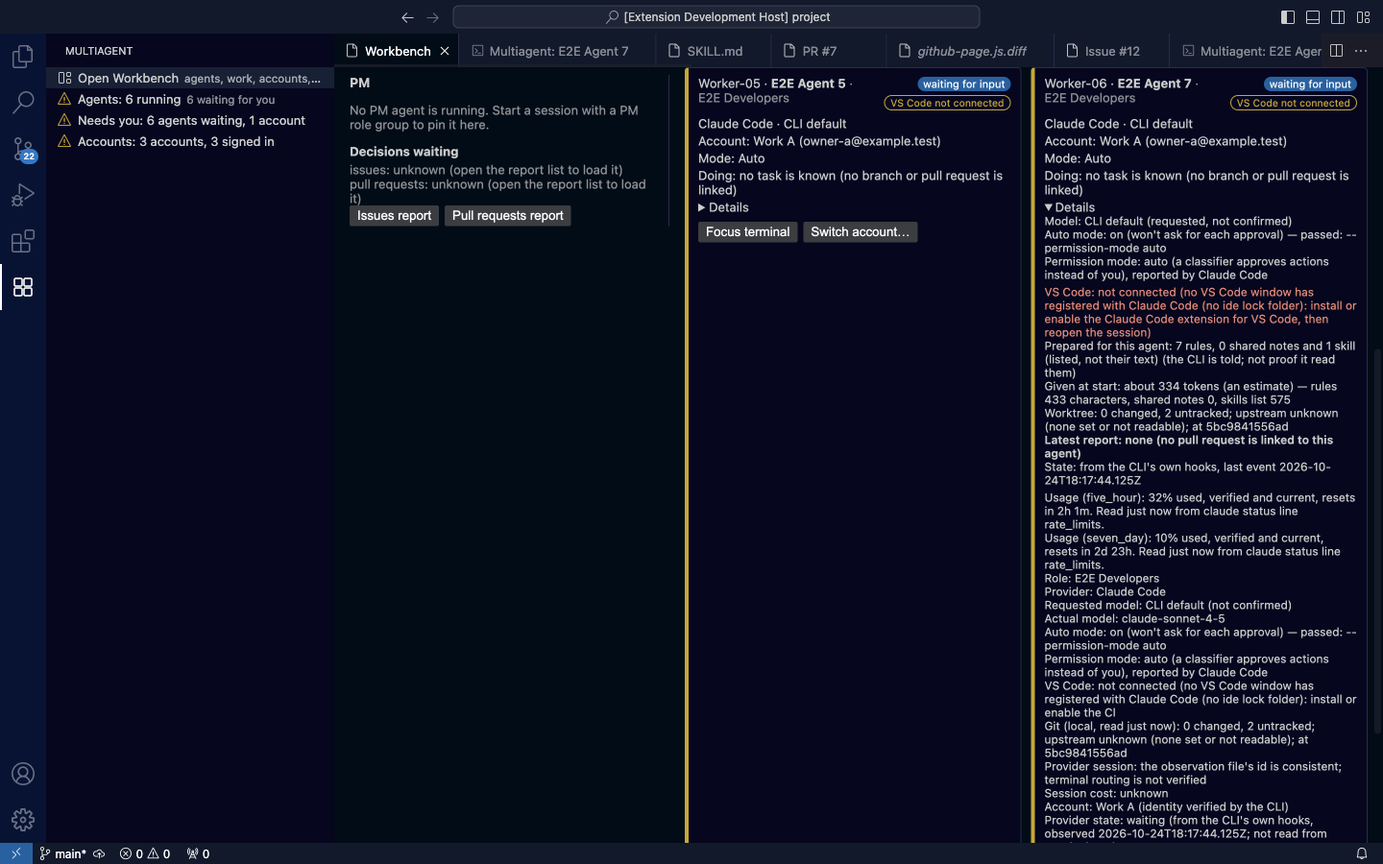
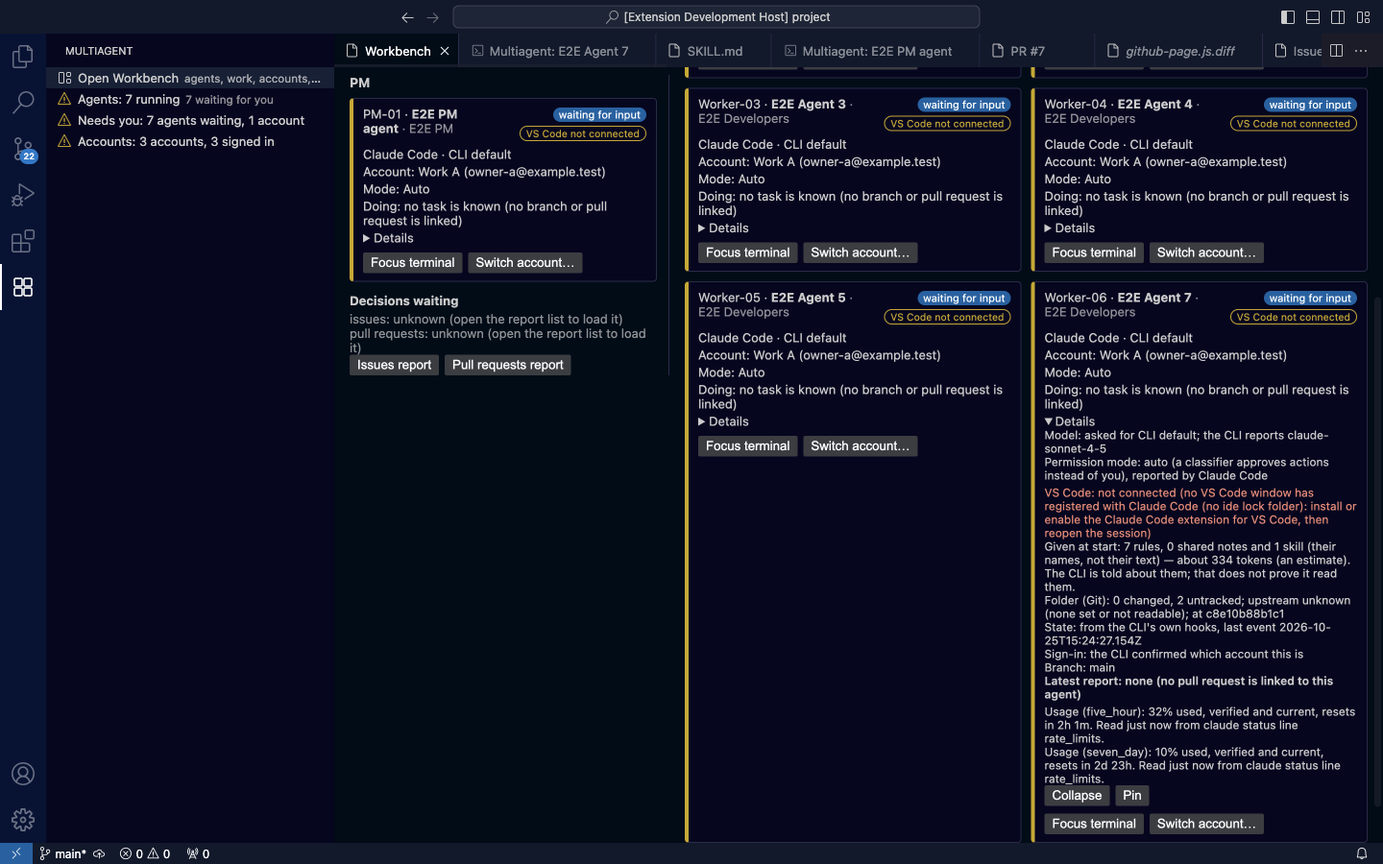
fix(ux): 卡片 Details 每件事只寫一次、白話（Refs #357） (#393)
Refs #357

Changed region(s): [[0.5, 0.0311, 1.0, 0.9956], [0.25, 0.1244, 0.4688, 0.4356], [0.0938, 0.0933, 0.2188, 0.1556]]

diff --git a/test/commandCenter/page.test.js b/test/commandCenter/page.test.js
@@ -8,6 +8,10 @@ const { renderPage, SCRIPT } = require('../../src/commandCenter/page');
 const NONCE = 'AbCdEfGhIjKlMnOp-_12';
 const html = () => renderPage({ nonce: NONCE });
 
+// The page draws the Details the model decided (#357): the cards here get them from the model's own function.
+const { detailFacts } = require('../../src/commandCenter/model');
+const withFacts = (card) => ({ ...card, facts: detailFacts(card, card.details ?? []) });
+
 test('the policy allows nothing from outside: no remote source, no frames, no forms, only this page\'s own nonce', () => {
   const page = html();
   const policy = /Content-Security-Policy" content="([^"]+)"/.exec(page)[1];
@@ -79,7 +83,7 @@ test('the page really runs: given a state it draws every card, the PM panel and 
   vm.runInNewContext(SCRIPT, sandbox);
   assert.equal(JSON.stringify(posted), JSON.stringify([{ type: 'ready' }]), 'the page announces itself and nothing else');
   const hostile = '<img src=x onerror=alert(1)>';
-  const card = (id, over = {}) => ({ id, name: hostile, role: 'worker', roleName: 'Worker', provider: 'Claude Code', account: 'Main', model: 'sonnet', modelNote: 'requested, not confirmed', status: { state: 'working', text: 'working', source: 'from the CLI\'s own hooks' }, terminalOpen: true, task: { issue: 1, pullRequest: 7, text: 'Issue #1 · PR #7' }, worktree: '2 changed, 0 untracked; 1 ahead, 0 behind its upstream', report: { lines: ['Latest report (PR #7): PM report current', 'User can: open the Command Center', 'Review: approval approved · CI passing'] }, summary: 's', details: ['Branch: x'], quota: { lines: ['Usage (five_hour): 42% used'], policy: '', gate: 'warn' }, autoMode: 'Auto mode: on', alert: 'quota: near the limit', pinned: false, collapsed: false, ...over });
+  const card = (id, over = {}) => withFacts({ id, name: hostile, role: 'worker', roleName: 'Worker', provider: 'Claude Code', account: 'Main', model: 'sonnet', modelNote: 'requested, not confirmed', status: { state: 'working', text: 'working', source: 'from the CLI\'s own hooks' }, terminalOpen: true, task: { issue: 1, pullRequest: 7, text: 'Issue #1 · PR #7' }, worktree: '2 changed, 0 untracked; 1 ahead, 0 behind its upstream', report: { lines: ['Latest report (PR #7): PM report current', 'User can: open the Command Center', 'Review: approval approved · CI passing'] }, summary: 's', details: ['Branch: x'], quota: { lines: ['Usage (five_hour): 42% used'], policy: '', gate: 'warn' }, autoMode: 'Auto mode: on', alert: 'quota: near the limit', pinned: false, collapsed: false, ...over });
   listeners.message({ data: { type: 'state', state: { layout: { mode: 'grid', order: [], collapsed: [], pinned: [] }, pm: [card('pm-1', { role: 'pm' })], agents: [card('a-1'), card('a-2', { collapsed: true, task: { issue: null, pullRequest: null, text: 'no task is known' } }), card('a-3', { status: { state: 'waiting', text: 'waiting for input', source: 'from the CLI\'s own hooks' }, ide: 'VS Code: not connected (no lock file)' }), card('a-6', { ide: "VS Code: connected through this window's Claude Code port (40002)", trust: 'Folder trust: not pre-written, so Codex asks once (x)' }), card('a-4', { status: { state: 'ended', text: 'ended', source: 'from the CLI\'s own hooks' }, permission: { text: 'Auto mode is not in effect: Claude Code reports default (asks before actions)', attention: true, lines: ['Next: reopen the session'] } }), card('a-5', { status: { state: 'unknown', text: 'state unknown', source: 'no hook evidence' } })], accounts: [
       { id: 'acct', label: 'Main', provider: 'Claude Code', signIn: 'sign-in checked', identity: 'identity verified (abcd1234)', issues: ['Another profile logs in to the same real account.'], plan: null, windows: [{ window: 'five_hour', label: '5-hour', usedPercent: 42, text: '42% used', kind: 'actual', trust: 'verified and current', resets: 'resets in 2h', resetsAt: '2026-10-22T12:00:00.000Z', read: 'read 1m ago', source: 'claude status line rate_limits' }], usageKnown: true, reason: null, policy: 'Limits: warn at 80% used.', gate: 'block', alert: 'new agents on this account are held back', agents: ['Worker One'], agentCount: 3 },
       { id: 'acct-2', label: `Codex <b>${hostile}`, provider: 'Codex CLI', signIn: 'sign-in not checked in this window', identity: 'identity unknown', issues: [], plan: 'plus', windows: [], usageKnown: false, reason: { short: 'no Codex session log yet', detail: 'This account has no session log yet.', hint: 'Run Codex once with this account.', next: { action: 'details', label: 'Open the account details' } }, policy: 'Limits: none set.', gate: null, alert: null, agents: [], agentCount: 0 }
@@ -110,7 +114,7 @@ test('the page really runs: given a state it draws every card, the PM panel and 
   const sourceBox = firstAccount.children.flatMap((child) => child.children).find((child) => child.tag === 'details');
   assert.ok(sourceBox && sourceBox.textContent.includes('from claude status line rate_limits'), 'the source is under Details');
   for (const expected of ['waiting for input', 'ended', 'state unknown', 'working']) assert.ok(text.includes(expected), `the status text "${expected}" is drawn on a card`);
-  assert.ok(text.includes('Worktree: 2 changed, 0 untracked; 1 ahead, 0 behind its upstream'), 'the card itself carries one line about the working folder');
+  assert.ok(text.includes('Folder (Git): 2 changed, 0 untracked; 1 ahead, 0 behind its upstream'), 'the card itself carries one line about the working folder');
   for (const expected of ['Latest report (PR #7): PM report current', 'User can: open the Command Center', 'Review: approval approved · CI passing']) assert.ok(text.includes(expected), `the latest report is drawn: ${expected}`);
   assert.ok(nodes.some((entry) => entry.tag === 'span' && entry.className === 'badge badge-waiting' && entry.textContent === 'waiting for input'));
   assert.ok(nodes.some((entry) => entry.tag === 'span' && entry.className === 'badge badge-ended' && entry.textContent === 'ended'));
@@ -218,13 +222,13 @@ test('a card says in four plain lines who it is, which account, which mode and w
   const app = node('div');
   const listeners = {};
   vm.runInNewContext(SCRIPT, { document: { getElementById: () => app, createElement: node }, acquireVsCodeApi: () => ({ postMessage() {} }), window: { addEventListener: (name, fn) => { listeners[name] = fn; } } });
-  const card = { id: 'a-1', codename: 'Worker-01', name: 'Agent One', role: 'worker', roleName: 'Developers', provider: 'Claude Code', account: 'Work A (owner-a@example.test)', model: 'CLI default', modelNote: 'requested, not confirmed', mode: 'Auto', status: { state: 'unknown', text: 'state unknown', source: 'no hook evidence' }, terminalOpen: true, task: { issue: null, pullRequest: null, text: 'no task is known' }, worktree: '0 changed; upstream unknown; at e68869580e0a', report: { lines: ['Latest report: none'] }, summary: '', details: ['Branch: x'], quota: { lines: [], policy: '', gate: null }, autoMode: 'Auto mode: on (won\'t ask)', ide: 'VS Code: not connected (no lock file)', injected: 'Prepared for this agent: 7 rules', alert: null, pinned: false, collapsed: false };
+  const card = withFacts({ id: 'a-1', codename: 'Worker-01', name: 'Agent One', role: 'worker', roleName: 'Developers', provider: 'Claude Code', account: 'Work A (owner-a@example.test)', model: 'CLI default', modelNote: 'requested, not confirmed', mode: 'Auto', status: { state: 'unknown', text: 'state unknown', source: 'no hook evidence' }, terminalOpen: true, task: { issue: null, pullRequest: null, text: 'no task is known' }, worktree: '0 changed; upstream unknown; at e68869580e0a', report: { lines: ['Latest report: none'] }, summary: '', details: ['Branch: x'], quota: { lines: [], policy: '', gate: null }, autoMode: 'Auto mode: on (won\'t ask)', ide: 'VS Code: not connected (no lock file)', givenLine: 'Given at start: 7 rules and 0 shared notes.', alert: null, pinned: false, collapsed: false });
   listeners.message({ data: { type: 'state', state: { layout: { mode: 'grid', order: [], collapsed: [], pinned: [] }, pm: [], agents: [card], accounts: [], alerts: [], decisions: { issues: { known: false, text: 'x' }, pullRequests: { known: false, text: 'y' } }, notes: [] } } });
   const body = nodes.filter((entry) => entry.className === 'card-body').at(-1);
   const top = body.children.filter((child) => child.tag === 'div').map((child) => child.textContent);
   assert.deepEqual(top, ['Claude Code · CLI default', 'Account: Work A (owner-a@example.test)', 'Mode: Auto', 'Doing: no task is known']);
   const details = body.children.find((child) => child.tag === 'details');
-  for (const hidden of ['Worktree: 0 changed', 'Prepared for this agent', 'State: no hook evidence', 'VS Code: not connected (no lock file)']) {
+  for (const hidden of ['Folder (Git): 0 changed', 'Given at start: 7 rules', 'State: no hook evidence', 'VS Code: not connected (no lock file)', 'Branch: x']) {
     assert.ok(details.textContent.includes(hidden), `${hidden} is in the details`);
     assert.equal(top.some((line) => line.includes(hidden)), false, `${hidden} is not in the plain lines`);
   }
@@ -247,13 +251,13 @@ test('a card\'s Details that the person opened stay open when the cards are draw
   }
   const app = node('div');
   vm.runInNewContext(SCRIPT, { document: { getElementById: () => app, createElement: node }, acquireVsCodeApi: () => ({ postMessage() {} }), window: { addEventListener: (name, fn) => { listeners[name] = fn; } } });
-  const card = { id: 'a-1', name: 'Agent', role: 'worker', roleName: 'Worker', provider: 'Claude Code', account: 'Main', model: 'sonnet', modelNote: 'requested', status: { state: 'working', text: 'working', source: 'hooks' }, terminalOpen: true, task: { issue: null, pullRequest: null, text: 'no task' }, worktree: 'clean', report: { lines: [] }, summary: '', details: [], quota: { lines: [], policy: '', gate: null }, autoMode: null, alert: null, pinned: false, collapsed: false, given: 'Given at start: about 50 tokens (an estimate) — rules 100 characters, shared notes 0, skills list 80' };
+  const card = withFacts({ id: 'a-1', name: 'Agent', role: 'worker', roleName: 'Worker', provider: 'Claude Code', account: 'Main', model: 'sonnet', modelNote: 'requested', status: { state: 'working', text: 'working', source: 'hooks' }, terminalOpen: true, task: { issue: null, pullRequest: null, text: 'no task' }, worktree: 'clean', report: { lines: [] }, summary: '', details: [], quota: { lines: [], policy: '', gate: null }, autoMode: null, alert: null, pinned: false, collapsed: false, givenLine: 'Given at start: 2 rules and 0 shared notes — about 50 tokens (an estimate).' });
   const state = { layout: { mode: 'grid', order: [], collapsed: [], pinned: [] }, pm: [], agents: [card], accounts: [], alerts: [], decisions: { issues: { known: false, text: 'x' }, pullRequests: { known: false, text: 'y' } }, notes: [] };
   listeners.message({ data: { type: 'state', state } });
   const detailsOf = () => nodes.filter((entry) => entry.tag === 'details').at(-1);
   const first = detailsOf();
   assert.equal(first.open, false);
-  assert.ok(first.textContent.includes('Given at start: about 50 tokens'), 'the size line is in Details');
+  assert.ok(first.textContent.includes('about 50 tokens'), 'the size line is in Details');
   first.open = true;
   first.listeners.toggle();
   listeners.message({ data: { type: 'state', state } });

diff --git a/test/commandCenter/model.test.js b/test/commandCenter/model.test.js
@@ -412,3 +412,54 @@ test('the card\'s Details carry what the agent was given, from its session (#359
   assert.match(card.injected, /and 1 skill \(listed, not their text\)/);
   assert.equal(build([session()]).agents[0].given, null, 'nothing is said when it is not known');
 });
+
+test('a card\'s Details say each thing once, in plain words, and only what the card does not show already (#357)', () => {
+  const { describeGiven } = require('../../src/commandCenter/model');
+  const ide = "VS Code: connected through this window's Claude Code port (40123)";
+  // The overview's tooltip as the #384 screenshot showed it: most of it repeats the card.
+  const tooltip = ['Role: E2E Developers', 'Provider: Claude Code', 'Requested model: CLI default (not confirmed)', 'Actual model: claude-sonnet-4-5',
+    'Auto mode: on (won\'t ask for each approval) — passed: --permission-mode auto', 'Permission mode: auto (a classifier approves actions instead of you), reported by Claude Code', ide,
+    'Git (local, read just now): 0 changed, 2 untracked; at 5bc9841556ad', "Provider session: the observation file's id is consistent; terminal routing is not verified", 'Session cost: unknown',
+    'Account: Work A (identity verified by the CLI)', 'Provider state: waiting (from the CLI\'s own hooks)', 'Terminal lifecycle: CLI launch requested, not confirmed', 'Branch: main', 'Issue: unknown',
+    'Pull request: no open pull request', 'CI: unknown', 'The role group is read from its current definition. Its rules are not sent to the CLI yet, so editing it does not change what an agent that is already started was told.', 'Fields marked unknown have no verified source yet.'];
+  const [card] = buildCards({
+    sessions: [session({ requestedModel: null, ideLabel: ide, autoModeLabel: 'Auto mode: on (won\'t ask for each approval) — passed: --permission-mode auto', requestedAutoMode: 'on', reportedPermissionMode: { mode: 'auto' }, injectedCounts: { rules: 7, memories: 0, skills: 1 }, injectedSizes: { rules: { chars: 433, tokens: 100 }, memories: { chars: 0, tokens: 0 }, skills: { chars: 575, tokens: 150 }, total: { chars: 1008, tokens: 334 } } })],
+    agents: [agent({ tooltip })], accounts: [account()], roles
+  }).agents;
+  const texts = card.facts.map((fact) => fact.text);
+  assert.equal(texts[0], 'Model: asked for CLI default; the CLI reports claude-sonnet-4-5');
+  for (const [word, times] of [[/auto mode|permission mode/i, 1], [/^VS Code/, 1], [/Given at start/, 1], [/^Folder \(Git\)/, 1], [/^State: /, 1]]) {
+    assert.equal(texts.filter((text) => word.test(text)).length, times, `${word} once: ${texts.join(' | ')}`);
+  }
+  for (const repeated of [/^Role:/, /^Provider:/, /^Requested model:/, /^Actual model:/, /^Account:/, /^Provider state:/, /^Terminal lifecycle:/, /^Issue:/, /^Pull request:/, /^Git/, /unknown$/, /^Provider session:/, /^Fields marked/, /^The role group is read/]) {
+    assert.equal(texts.some((text) => repeated.test(text)), false, `${repeated} is not repeated in Details`);
+  }
+  assert.ok(texts.includes('Branch: main'));
+  assert.equal(texts.some((text) => /session:/i.test(text) && !/^State:/.test(text)), false, 'the normal CLI session says nothing');
+  const [mismatched] = buildCards({ sessions: [session()], agents: [agent({ tooltip: ['Provider session: the CLI session changed, so its evidence is turned off for this session'] })], accounts: [account()], roles }).agents;
+  assert.ok(mismatched.facts.some((fact) => fact.text === 'CLI session: the CLI session changed, so its evidence is turned off for this session'), 'a problem with it is said');
+  assert.ok(texts.includes('Sign-in: the CLI confirmed which account this is'));
+  assert.ok(texts.includes(describeGiven({ rules: 7, memories: 0, skills: 1 }, { rules: { chars: 433, tokens: 100 }, memories: { chars: 0, tokens: 0 }, skills: { chars: 575, tokens: 150 }, total: { chars: 1008, tokens: 334 } })));
+  assert.ok(texts.length <= 10, `${texts.length} lines: ${texts.join(' | ')}`);
+});
+
+test('the Details say the mode that was asked for only when the CLI has not reported one, and mark what needs a look (#357)', () => {
+  const [asked] = build([session({ autoModeLabel: 'Auto mode: on (synthetic)' })]).agents;
+  assert.ok(asked.facts.some((fact) => fact.text === 'Auto mode: on (synthetic)'));
+  const [fell] = build([session({ requestedAutoMode: 'on', reportedPermissionMode: { mode: 'default' }, ideLabel: 'VS Code: not connected (no lock file)', trustLabel: 'Folder trust: not pre-written, so Codex asks once (x)' })]).agents;
+  const alerts = fell.facts.filter((fact) => fact.alert).map((fact) => fact.text);
+  assert.equal(fell.facts.some((fact) => fact.text === 'Auto mode: on (synthetic)'), false, 'the reported mode takes its place');
+  assert.equal(alerts.length, 3, alerts.join(' | '));
+  assert.ok(alerts.some((text) => /not connected/.test(text)) && alerts.some((text) => /asks once/.test(text)));
+  assert.equal(fell.facts.find((fact) => fact.text === 'Branch: feat/x').alert, false);
+  assert.ok(fell.facts.some((fact) => fact.text === 'CI: passing'), 'a known CI result is kept');
+  assert.ok(build([session()]).agents[0].facts.some((fact) => fact.text === 'Model: asked for sonnet; the CLI has not said which one it uses yet'));
+});
+
+test('what an agent was given is one line: what was prepared, about how many tokens, and what that does not prove (#357, #359)', () => {
+  const { describeGiven } = require('../../src/commandCenter/model');
+  const size = (chars, tokens) => ({ chars, tokens });
+  assert.equal(describeGiven({ rules: 7, memories: 1, skills: 2 }, { rules: size(1234, 300), memories: size(10, 3), skills: size(456, 114), total: size(1700, 1450) }), 'Given at start: 7 rules, 1 shared note and 2 skills (their names, not their text) — about 1,450 tokens (an estimate). The CLI is told about them; that does not prove it read them.');
+  assert.equal(describeGiven({ rules: 1, memories: 0 }), 'Given at start: 1 rule and 0 shared notes. The CLI is told about them; that does not prove it read them.');
+  assert.equal(describeGiven({ rules: -1, memories: 0 }), 'Given at start: unknown (it was not started in this window)');
+});

diff --git a/src/commandCenter/model.js b/src/commandCenter/model.js
@@ -93,6 +93,60 @@ function modeWord(label) {
   return 'unknown';
 }
 
+// The lines of the overview's tooltip that say something the card does not already say elsewhere (#357): the role, provider,
+// account, mode, VS Code, folder trust, Git reading, state, issue and pull request are all on the card or in its Details already.
+// The overview's general note that a role group's rules are not sent is left out: "Given at start" says what this agent was given.
+const EXTRA_LINES = [
+  [/^Branch: (?!unknown$)/, (text) => text],
+  [/^CI: (?!unknown$)/, (text) => text],
+  [/^Session cost: (?!unknown$)/, (text) => text],
+  [/^Account: .*\(identity verified by the CLI\)$/, () => 'Sign-in: the CLI confirmed which account this is'],
+  [/^Instructions: /, (text) => text],
+  // Only when something is wrong with how its events are matched to this terminal; the normal case says nothing.
+  [/^Provider session: (?!the observation file's id is consistent)/, (text) => text.replace(/^Provider session:/, 'CLI session:')]
+];
+function extraLines(tooltipLines) {
+  const out = [];
+  for (const text of tooltipLines) {
+    const rule = EXTRA_LINES.find(([pattern]) => pattern.test(text));
+    if (rule) out.push(rule[1](text));
+  }
+  return out;
+}
+
+/** What the agent was given at its start, in one line (#359, #357): what was prepared, about how many tokens, and what that proves. */
+function describeGiven(counts, sizes) {
+  if (!isPlain(counts) || !isCount(counts.rules) || !isCount(counts.memories)) return 'Given at start: unknown (it was not started in this window)';
+  const skills = isCount(counts.skills) ? counts.skills : null;
+  const parts = [plural(counts.rules, 'rule'), plural(counts.memories, 'shared note'), ...(skills === null ? [] : [`${plural(skills, 'skill')} (their names, not their text)`])];
+  const tokens = describeSizes(sizes) ? ` — about ${sizes.total.tokens.toLocaleString('en-US')} tokens (an estimate)` : '';
+  return `Given at start: ${parts.slice(0, -1).join(', ')} and ${parts.at(-1)}${tokens}. The CLI is told about them; that does not prove it read them.`;
+}
+
+/**
+ * The Details of a card, in order and each said once (#357): the model, the mode, VS Code, folder trust, what it was given, a task
+ * typed into it, its folder, where its state comes from, then what only the overview knows. `alert` marks what needs a look.
+ */
+function detailFacts(card, tooltipLines) {
+  const facts = [];
+  const add = (text, alert = false) => { if (typeof text === 'string' && text !== '') facts.push({ text, alert }); };
+  const actual = (tooltipLines.find((text) => /^Actual model: /.test(text)) ?? '').replace(/^Actual model: /, '');
+  add(`Model: asked for ${card.model}; ${actual && actual !== UNKNOWN ? `the CLI reports ${actual}` : 'the CLI has not said which one it uses yet'}`);
+  // The mode the CLI reports, when it does; otherwise the mode that was asked for. One of the two, never both.
+  if (card.permission && (card.permissionReported || card.permission.attention || !card.autoMode)) {
+    add(card.permission.text, card.permission.attention);
+    for (const text of card.permission.lines) add(text);
+  } else add(card.autoMode);
+  if (card.ide) add(card.ide, /not connected/.test(card.ide));
+  if (card.trust) add(card.trust, /asks once/.test(card.trust));
+  add(card.givenLine);
+  if (card.assigned) add(`Handed: ${card.assigned}`);
+  add(`Folder (Git): ${card.worktree}`);
+  add(`State: ${card.status.source}`);
+  for (const text of extraLines(tooltipLines)) add(text);
+  return facts;
+}
+
 function buildCards(input) {
   const { sessions, agents = [], accounts = [], roles = {}, reports = {}, assignments = {}, emails = {} } = isPlain(input) ? input : {};
   // The e-mail address of each account from this window's last sign-in check (#357): shown on the card only, never stored.
@@ -148,8 +202,12 @@ function buildCards(input) {
       trust: line(session.trustLabel, '', 260) || null,
       injected: describeInjected(session.injectedCounts),
       given: describeSizes(session.injectedSizes),
+      givenLine: describeGiven(session.injectedCounts, session.injectedSizes),
+      permissionReported: isPlain(session.reportedPermissionMode),
       alert: gate === 'block' ? 'quota: new agents on this account are held back' : gate === 'confirm' ? 'quota: needs confirmation' : gate === 'warn' ? 'quota: near the limit' : null
     });
+    const card = cards[cards.length - 1];
+    card.facts = detailFacts(card, details);
   }
   return {
     pm: cards.filter((card) => isPm(card.role)),
@@ -452,4 +510,4 @@ function applyLayoutMessage(layout, message) {
   return lay;
 }
 
-module.exports = { describeSizes, describeInjected, buildSkills, SKILL_ACTIONS, modeWord, buildCards, buildAccountRows, relative, ACCOUNT_ACTIONS, describeDecisions, normalizeLayout, arrange, parseMessage, applyLayoutMessage, statusOf, COMMANDS, LAYOUTS, MAX_CARDS, MAX_IDS, STATES, TABS, TARGETS };
+module.exports = { describeSizes, describeInjected, describeGiven, detailFacts, buildSkills, SKILL_ACTIONS, modeWord, buildCards, buildAccountRows, relative, ACCOUNT_ACTIONS, describeDecisions, normalizeLayout, arrange, parseMessage, applyLayoutMessage, statusOf, COMMANDS, LAYOUTS, MAX_CARDS, MAX_IDS, STATES, TABS, TARGETS };

diff --git a/test/e2e/steps.js b/test/e2e/steps.js
@@ -1008,8 +1008,8 @@ const ITEMS = [
           await card.waitFor({ timeout: 30000 });
           await card.locator('summary', { hasText: 'Details' }).first().click();
           const details = await card.locator('details').first().innerText();
-          check('the card says what it was given', details, /Prepared for this agent: \d+ rules?, \d+ shared notes? and 1 skill \(listed, not their text\)/);
-          check('and how much, as an estimate', details, /Given at start: about [\d,]+ tokens \(an estimate\) — rules [\d,]+ characters, shared notes [\d,]+, skills list [\d,]+/);
+          // One line (#357): what it was given, and about how many tokens.
+          check('the card says what it was given, and how much as an estimate', details, /Given at start: \d+ rules?, \d+ shared notes? and 1 skill \(their names, not their text\) — about [\d,]+ tokens \(an estimate\)/);
           for (let tries = 0; tries < 5; tries += 1) {
             try { await frame.locator('section[data-id]', { hasText: 'E2E Agent 7' }).first().scrollIntoViewIfNeeded({ timeout: 5000 }); break; } catch { await page.waitForTimeout(500); }
           }
@@ -1052,6 +1052,12 @@ const ITEMS = [
           check('and not the warning the other cards have', (await card.locator('.tag').allInnerTexts()).join(' | '), (text) => !/not connected/.test(text));
           await card.locator('summary', { hasText: 'Details' }).first().click();
           check('its details say how', await card.locator('details').first().innerText(), new RegExp(`VS Code: connected through this window's Claude Code port \\(${port}\\)`));
+          // The Details say each thing once, in plain words (#357): one line for the mode, one for VS Code, one for the model.
+          const detailLines = (await card.locator('details .detail').allInnerTexts()).map((text) => text.trim()).filter(Boolean);
+          for (const [what, pattern] of [['the mode', /auto mode|permission mode/i], ['VS Code', /^VS Code/], ['the model', /^Model:/], ['the folder', /^Folder \(Git\)/]]) {
+            check(`${what} is said once in Details`, detailLines.filter((text) => pattern.test(text)).length, 1);
+          }
+          check('nothing on the card is repeated there', detailLines.join(' | '), (text) => !/Role:|Provider:|Requested model:|Provider state:|Terminal lifecycle:|Fields marked unknown/.test(text));
           check('the lock file\'s token is nowhere on the screen', await frame.locator('body').innerText(), (text) => !text.includes('synthetic-token-never-read'));
           // The Workbench draws its cards again when an agent reports: find the card again if it was redrawn under the scroll.
           for (let tries = 0; tries < 5; tries += 1) {

diff --git a/src/commandCenter/page.js b/src/commandCenter/page.js
@@ -93,22 +93,10 @@ const SCRIPT = String.raw`
       details.addEventListener('toggle', function () { if (details.open) openDetails[card.id] = true; else delete openDetails[card.id]; });
       details.appendChild(el('summary', null, 'Details'));
       var more = function (text, className) { details.appendChild(el('div', className || 'detail', text)); };
-      more('Model: ' + card.model + ' (' + card.modelNote + ')');
-      if (card.autoMode) more(card.autoMode);
-      if (card.permission) {
-        more(card.permission.text, card.permission.attention ? 'detail alert' : 'detail');
-        card.permission.lines.forEach(function (text) { more(text); });
-      }
-      if (card.ide) more(card.ide, /not connected/.test(card.ide) ? 'detail alert' : 'detail');
-      if (card.trust) more(card.trust, /asks once/.test(card.trust) ? 'detail alert' : 'detail');
-      if (card.injected) more(card.injected);
-      if (card.given) more(card.given);
-      if (card.assigned) more('Handed: ' + card.assigned);
-      more('Worktree: ' + card.worktree);
+      // Each fact once, in plain words (#357); the extension decides the lines and which need a look.
+      (card.facts || []).forEach(function (fact) { more(fact.text, fact.alert ? 'detail alert' : 'detail'); });
       card.report.lines.forEach(function (text, index) { more(text, index === 0 ? 'detail report-head' : 'detail'); });
-      more('State: ' + card.status.source);
       details.appendChild(quotaBlock(card));
-      card.details.forEach(function (text) { more(text); });
       var tools = el('div', 'row');
       tools.appendChild(button(card.collapsed ? 'Expand' : 'Collapse', function () { post({ type: 'toggleCollapse', id: card.id }); }));
       tools.appendChild(button(card.pinned ? 'Unpin' : 'Pin', function () { post({ type: 'togglePin', id: card.id }); }));
